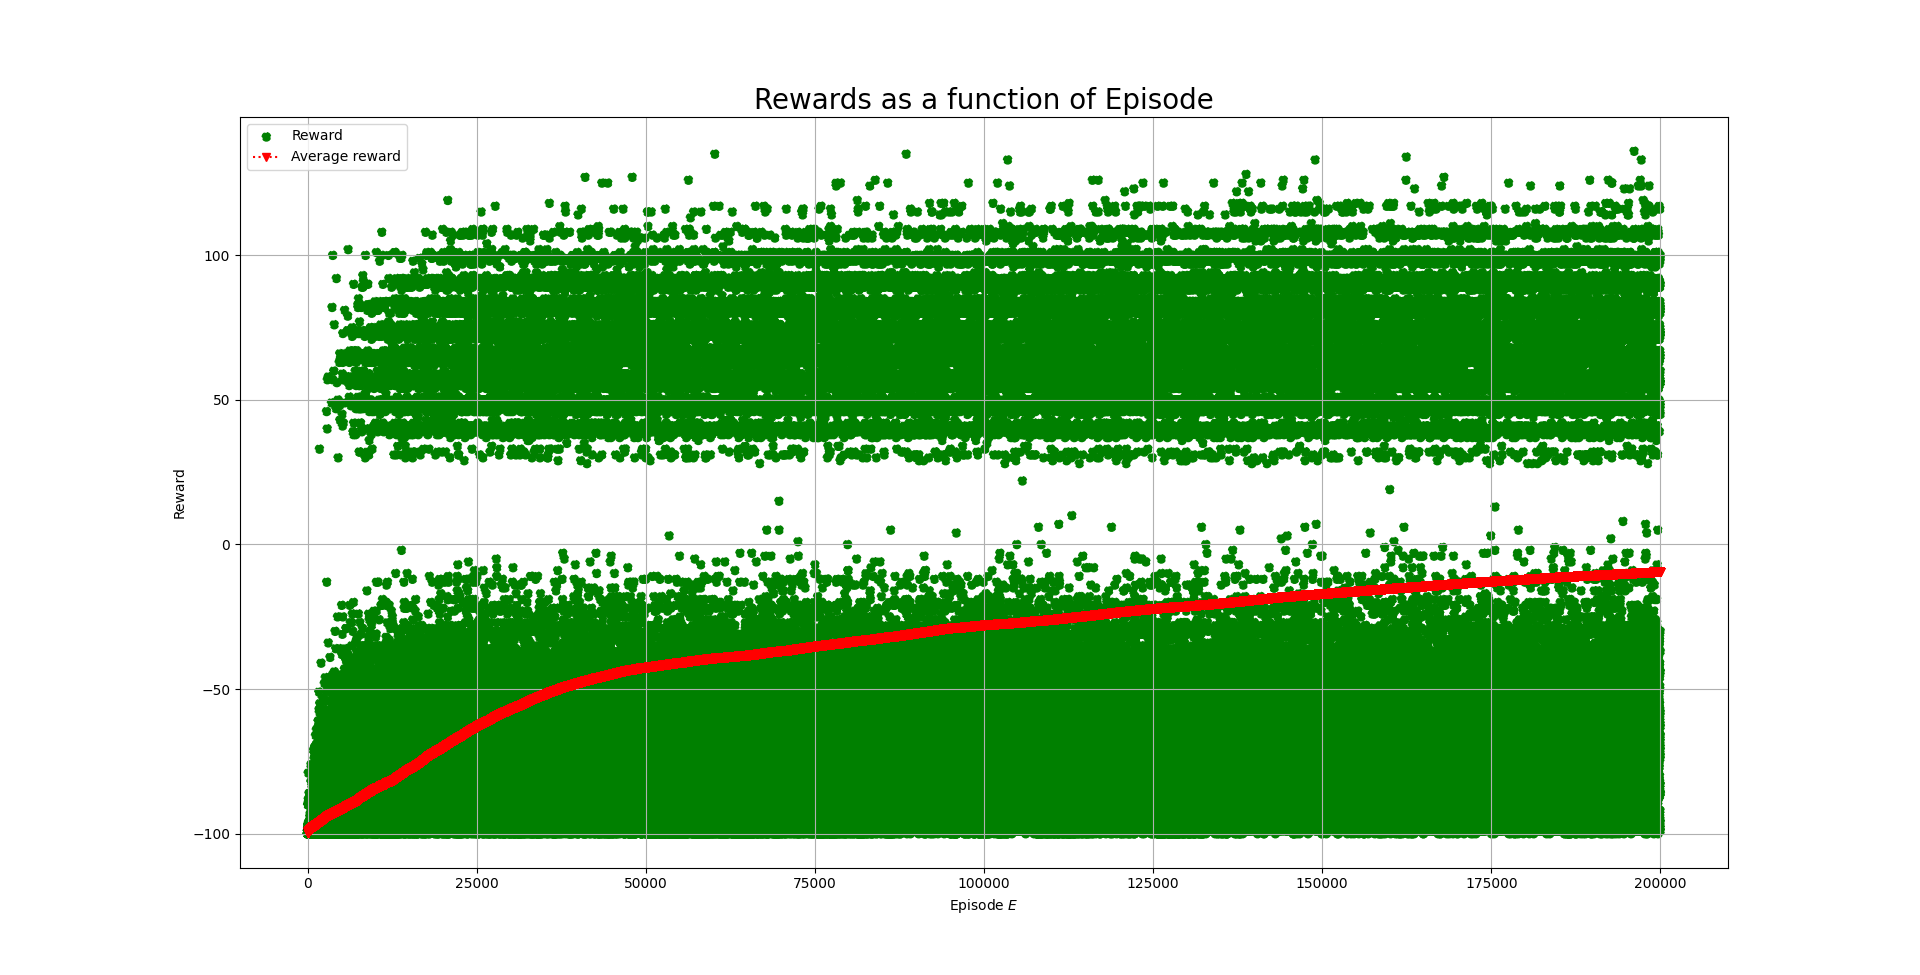
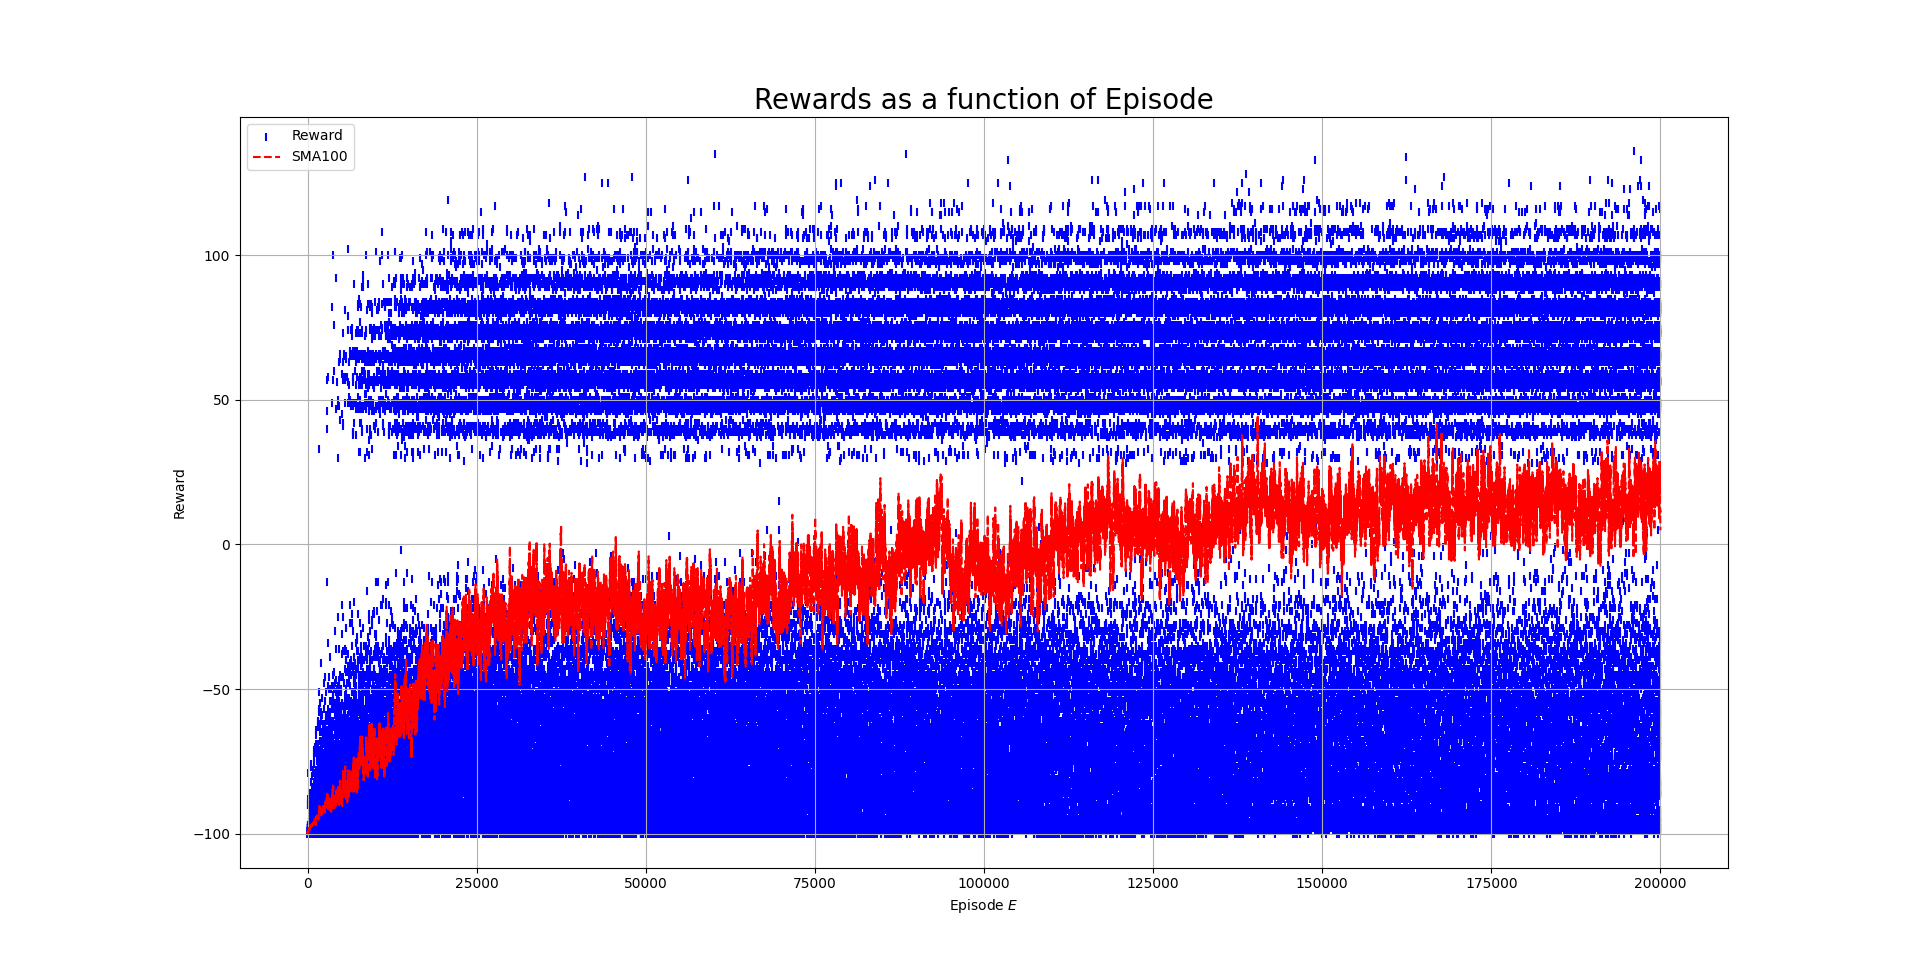
SMA１００に変換する．

diff --git a/HW B/plotting.py b/HW B/plotting.py
@@ -5,17 +5,17 @@ xValues = []
 yValues = []
 yValuesAvg = []
 
-with open('Rewards_a.csv') as csvfile:
+with open('Rewards_c.csv') as csvfile:
     lines = csv.reader(csvfile, delimiter=',')
     x = 1
     for row in lines:
         xValues.append(x)
         yValues.append(float(row[0]))
-        yValuesAvg.append(sum(yValues)/len(yValues)) # Moving average. 
+        yValuesAvg.append(sum(yValues[-100:])/len(yValues[-100:])) # SMA100. 
         x += 1
 
-plt.scatter(xValues, yValues, color = 'g', linestyle = 'dashed', marker = 'o', label = "Reward")
-plt.plot(xValues, yValuesAvg, color = 'r', linestyle = 'dotted', marker = 'v', label = "Average reward")
+plt.scatter(xValues, yValues, color = 'b', marker = '|', label = "Reward")
+plt.plot(xValues, yValuesAvg, color = 'r', linestyle = 'dashed', label = "SMA100")
   
 plt.xlabel('Episode $E$')
 plt.ylabel('Reward')
